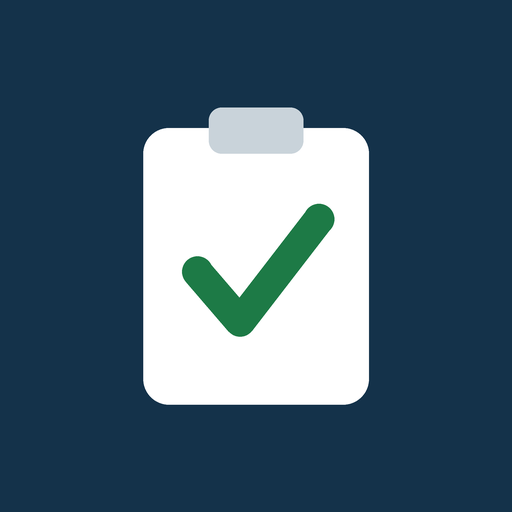
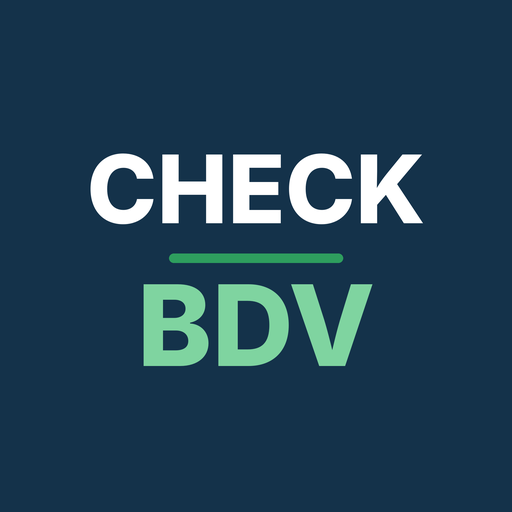
Vistoria: nome CHECK BDV e icone com CHECK em cima e BDV embaixo
Claude-Session: https://claude.ai/code/session_01BGxEPMd4LzimPTfDhmghYc

Changed region(s): [[0.1562, 0.1875, 0.8438, 0.8125]]

diff --git a/docs/vistoria/index.html b/docs/vistoria/index.html
@@ -3,12 +3,12 @@
 <head>
 <meta charset="utf-8">
 <meta name="viewport" content="width=device-width, initial-scale=1, viewport-fit=cover">
-<title>Vistoria BDV</title>
+<title>CHECK BDV</title>
 <meta name="claude:viewport-fit-sides" content="cover">
 <meta name="theme-color" content="#14324a">
 <meta name="apple-mobile-web-app-capable" content="yes">
 <meta name="mobile-web-app-capable" content="yes">
-<meta name="apple-mobile-web-app-title" content="Vistoria BDV">
+<meta name="apple-mobile-web-app-title" content="CHECK BDV">
 <link rel="manifest" href="manifest.webmanifest">
 <link rel="icon" href="icon-192.png">
 <link rel="apple-touch-icon" href="icon-192.png">
@@ -288,7 +288,7 @@ button.kpi:hover, .open button:hover, .legend button:hover { border-color: var(-
 
 <header class="bar">
   <div class="bar-row">
-    <div class="brand">Vistoria BDV</div>
+    <div class="brand">CHECK BDV</div>
     <button class="sync" id="installBtn" type="button" hidden>Instalar app</button>
     <button class="sync" id="syncBtn" type="button" data-s="ok" aria-label="Enviar pendentes agora"><span class="dot"></span><span id="syncTxt">Tudo enviado</span></button>
   </div>

diff --git a/monitor-frota/vistoria/index.html b/monitor-frota/vistoria/index.html
@@ -3,12 +3,12 @@
 <head>
 <meta charset="utf-8">
 <meta name="viewport" content="width=device-width, initial-scale=1, viewport-fit=cover">
-<title>Vistoria BDV</title>
+<title>CHECK BDV</title>
 <meta name="claude:viewport-fit-sides" content="cover">
 <meta name="theme-color" content="#14324a">
 <meta name="apple-mobile-web-app-capable" content="yes">
 <meta name="mobile-web-app-capable" content="yes">
-<meta name="apple-mobile-web-app-title" content="Vistoria BDV">
+<meta name="apple-mobile-web-app-title" content="CHECK BDV">
 <link rel="manifest" href="manifest.webmanifest">
 <link rel="icon" href="icon-192.png">
 <link rel="apple-touch-icon" href="icon-192.png">
@@ -288,7 +288,7 @@ button.kpi:hover, .open button:hover, .legend button:hover { border-color: var(-
 
 <header class="bar">
   <div class="bar-row">
-    <div class="brand">Vistoria BDV</div>
+    <div class="brand">CHECK BDV</div>
     <button class="sync" id="installBtn" type="button" hidden>Instalar app</button>
     <button class="sync" id="syncBtn" type="button" data-s="ok" aria-label="Enviar pendentes agora"><span class="dot"></span><span id="syncTxt">Tudo enviado</span></button>
   </div>

diff --git a/docs/vistoria/sw.js b/docs/vistoria/sw.js
@@ -1,5 +1,5 @@
 // Vistoria BDV: guarda o app para abrir sem internet. Chamadas ao Supabase passam direto (a fila offline fica no app).
-var CACHE = "vistoria-bdv-v2";
+var CACHE = "vistoria-bdv-v3";
 var SHELL = ["./", "index.html", "manifest.webmanifest", "icon-192.png", "icon-512.png"];
 
 self.addEventListener("install", function (e) {

diff --git a/monitor-frota/vistoria/sw.js b/monitor-frota/vistoria/sw.js
@@ -1,5 +1,5 @@
 // Vistoria BDV: guarda o app para abrir sem internet. Chamadas ao Supabase passam direto (a fila offline fica no app).
-var CACHE = "vistoria-bdv-v2";
+var CACHE = "vistoria-bdv-v3";
 var SHELL = ["./", "index.html", "manifest.webmanifest", "icon-192.png", "icon-512.png"];
 
 self.addEventListener("install", function (e) {
